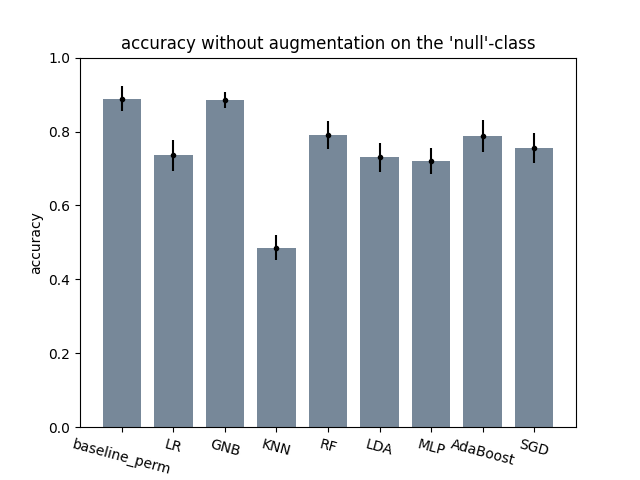
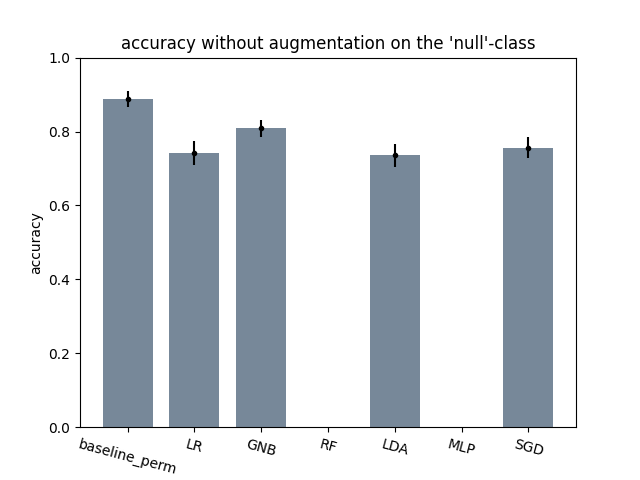
test_plots

Changed region(s): [[0.1875, 0.1875, 0.875, 0.9688], [0.0938, 0.9062, 0.2812, 1.0]]

diff --git a/evaluation/smote_results.py b/evaluation/smote_results.py
@@ -4,8 +4,8 @@ if __name__ == '__main__':
     dir = r"C:\Users\Albert Kjøller\Documents\GitHub\EEG_epilepsia"  # dir = "/Users/philliphoejbjerg/Documents/GitHub/EEG_epilepsia"  # dir = r"/Users/Jacobsen/Documents/GitHub/EEG_epilepsia" + "/"
 
     # Example of merging fully created files from different models.
-    experiment = "smote_f2"  # directory containing the files we will look at
-    experiment_name = '_smote_f2_merged_allModels'
+    experiment = "SMOTE"  # directory containing the files we will look at
+    experiment_name = '_smote_merged_test'
     fullSMOTE = getResults(dir, experiment, experiment_name, merged_file=True, windowsOS=True)
     fullSMOTE.mergeResultFiles(file_name=experiment_name)
 

diff --git a/evaluation/results.py b/evaluation/results.py
@@ -31,7 +31,7 @@ class getResults:
         self.smote_ratios = [1, 1.5, 2, 2.5, 3]
         self.folds = [0, 1, 2, 3, 4]
         self.artifacts = ['eyem', 'chew', 'shiv', 'elpp', 'musc', 'null']
-        self.models = ['baseline_perm', 'LR', 'GNB', 'KNN', 'RF', 'LDA', 'MLP', 'AdaBoost', 'SGD']
+        self.models = ['baseline_perm', 'LR', 'GNB', 'RF', 'LDA', 'MLP', 'SGD'] # , 'KNN', 'AdaBoost'
         self.scores = ['y_pred', 'accuracy', 'weighted_F2', 'sensitivity']
 
         print(f"Created object for experiment: {experiment_name}\n")
